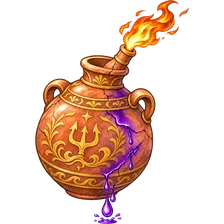
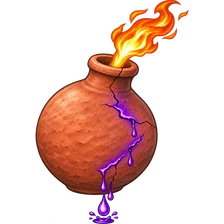
アイコン差し替え：ギリシアの火・カコの手帳・活版印刷機・禁書目録
Claude-Session: https://claude.ai/code/session_019HikjUH46p9FSpUo3k6DMG

Changed region(s): [[0.1562, 0.0, 0.8438, 1.0]]

diff --git a/index.html b/index.html
@@ -4188,12 +4188,12 @@ const IMG={
 "アイテム_羅針盤": "img/item/rashinban.webp",
 "アイテム_乳香": "img/item/nyuko.webp",
 "アイテム_硝石": "img/item/shoseki.webp",
-"アイテム_カコの手帳": "img/item/kako_techo.webp",
+"アイテム_カコの手帳": "img/item/kako_techo.webp?v=2",
 "アイテム_ドクニンジンの杯": "img/item/dokuninjin.webp",
 "アイテム_修道院の薬草": "img/item/yakuso.webp",
-"アイテム_禁書目録": "img/item/kinsho.webp",
+"アイテム_禁書目録": "img/item/kinsho.webp?v=2",
 "アイテム_ダモクレスの剣": "img/item/damocles.webp",
-"アイテム_活版印刷機": "img/item/kappan.webp",
+"アイテム_活版印刷機": "img/item/kappan.webp?v=2",
 "アイテム_ロゼッタ＝ストーン": "img/item/rosetta.webp",
 "アイテム_不老不死の薬": "img/item/furofushi.webp",
 "アイテム_借り物の王冠": "img/item/okan.webp",
@@ -4203,7 +4203,7 @@ const IMG={
 "アイテム_錬金術の霊薬": "img/item/renkin.webp",
 "アイテム_コンラッドの万年筆": "img/item/mannenhitsu.webp",
 "アイテム_ホプロンの盾": "img/item/hoplon.webp",
-"アイテム_ギリシアの火": "img/item/greekfire.webp",
+"アイテム_ギリシアの火": "img/item/greekfire.webp?v=2",
 "アイテム_ヌルの外套": "img/item/gaito.webp",
 "アイテム_シミの虫眼鏡": "img/item/mushimegane.webp",
 "アイテム_テリアカ": "img/item/theriaca.webp",
